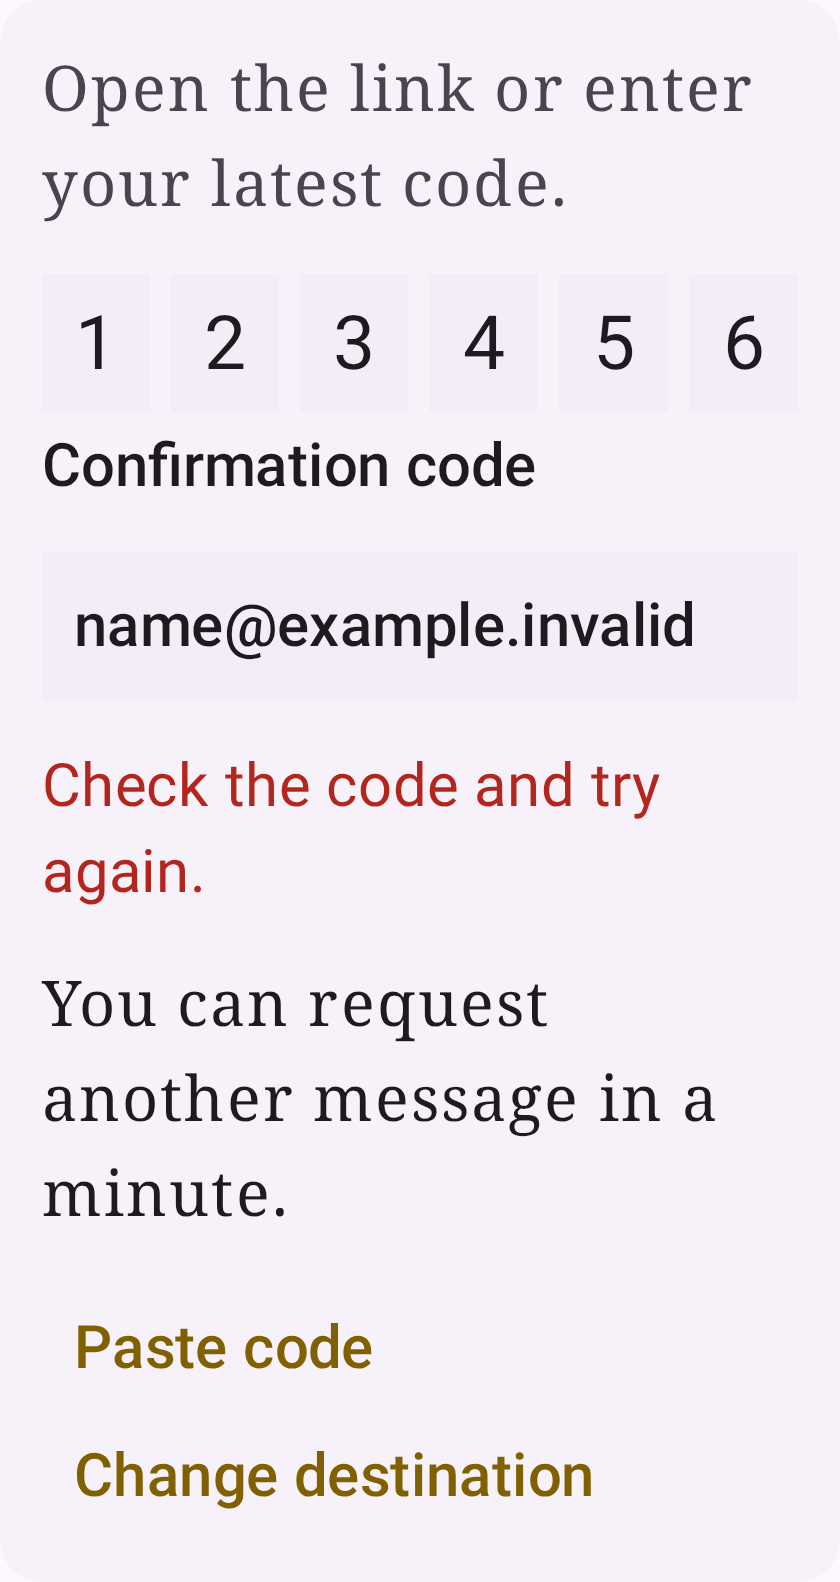
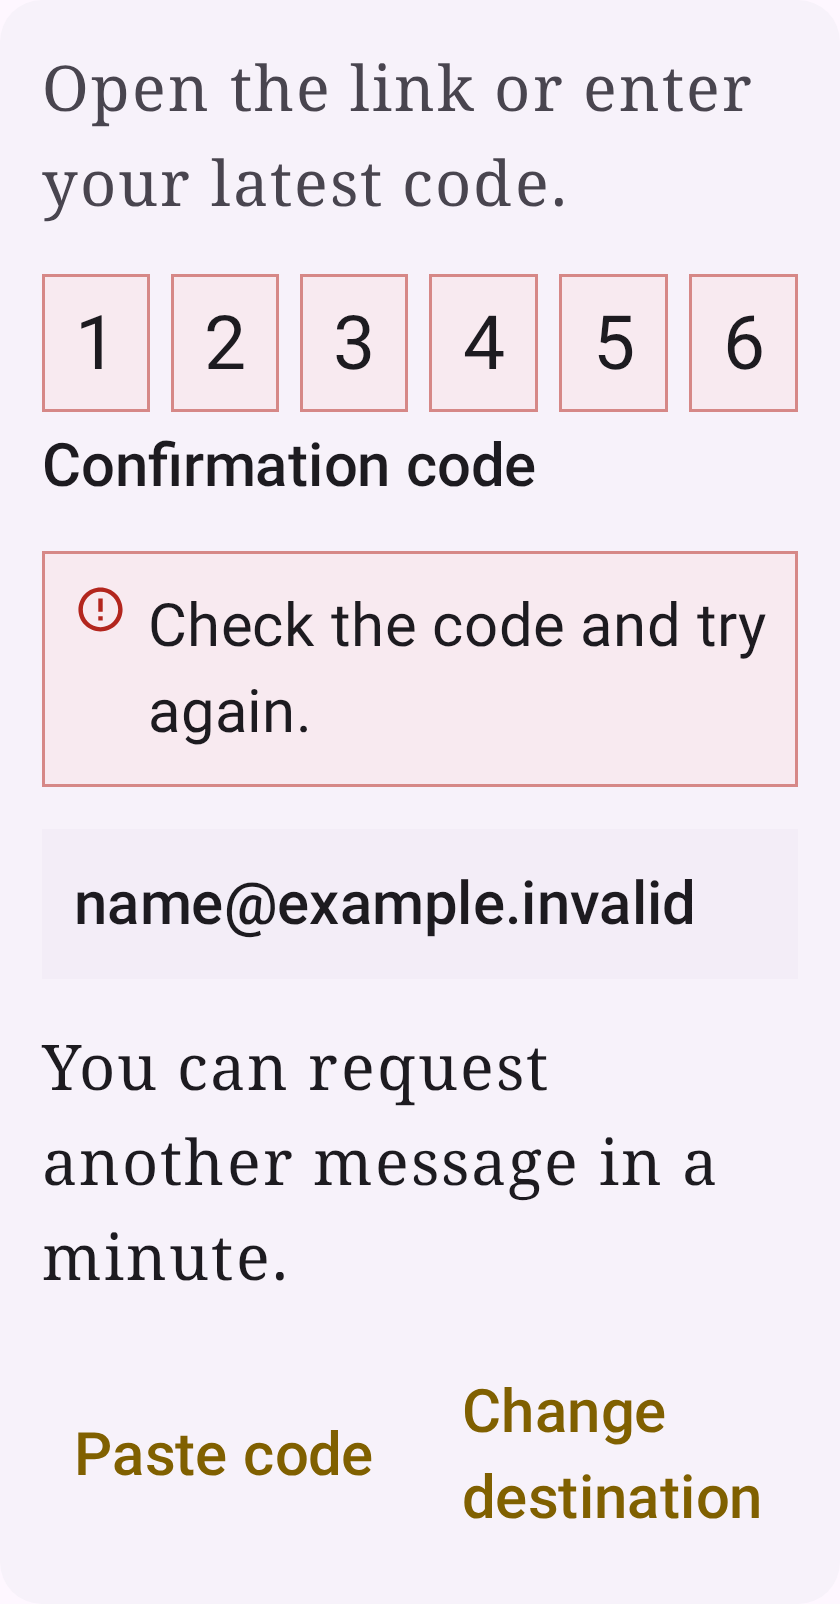
Document rendered error and action-row layouts

diff --git a/docs/es/testing.md b/docs/es/testing.md
@@ -32,3 +32,10 @@ visuales aprobadas ni evidencia del autocompletado en dispositivos.
 
 Estas ilustraciones usan el mismo renderizador de celdas que el campo lógico. Las pruebas en
 dispositivo ejecutan toques y escritura reales; las ilustraciones no sustituyen esas pruebas.
+
+## Presentación de errores
+
+![Aviso de error con borde y acciones en una fila](../assets/screenshots/error-dark.png)
+![Enfoque primario conservado entre las celdas con error](../assets/screenshots/focus-error-dark.png)
+
+El host proporciona la causa del error y lo borra cuando corresponde. No se deduce el número de intentos.

diff --git a/docs/agents/testing.md b/docs/agents/testing.md
@@ -41,3 +41,10 @@ not approved regression baselines or evidence of device autofill behavior.
 
 These focused-state illustrations use the same cell renderer as the logical input. Device tests
 separately exercise real taps and typing; the illustrations do not substitute for interaction tests.
+
+## Error presentation
+
+![Outlined error notice and one-row actions](../assets/screenshots/error-dark.png)
+![Primary focus retained among error cells](../assets/screenshots/focus-error-dark.png)
+
+The host supplies the error reason and clears it when appropriate. No attempt count is inferred.
